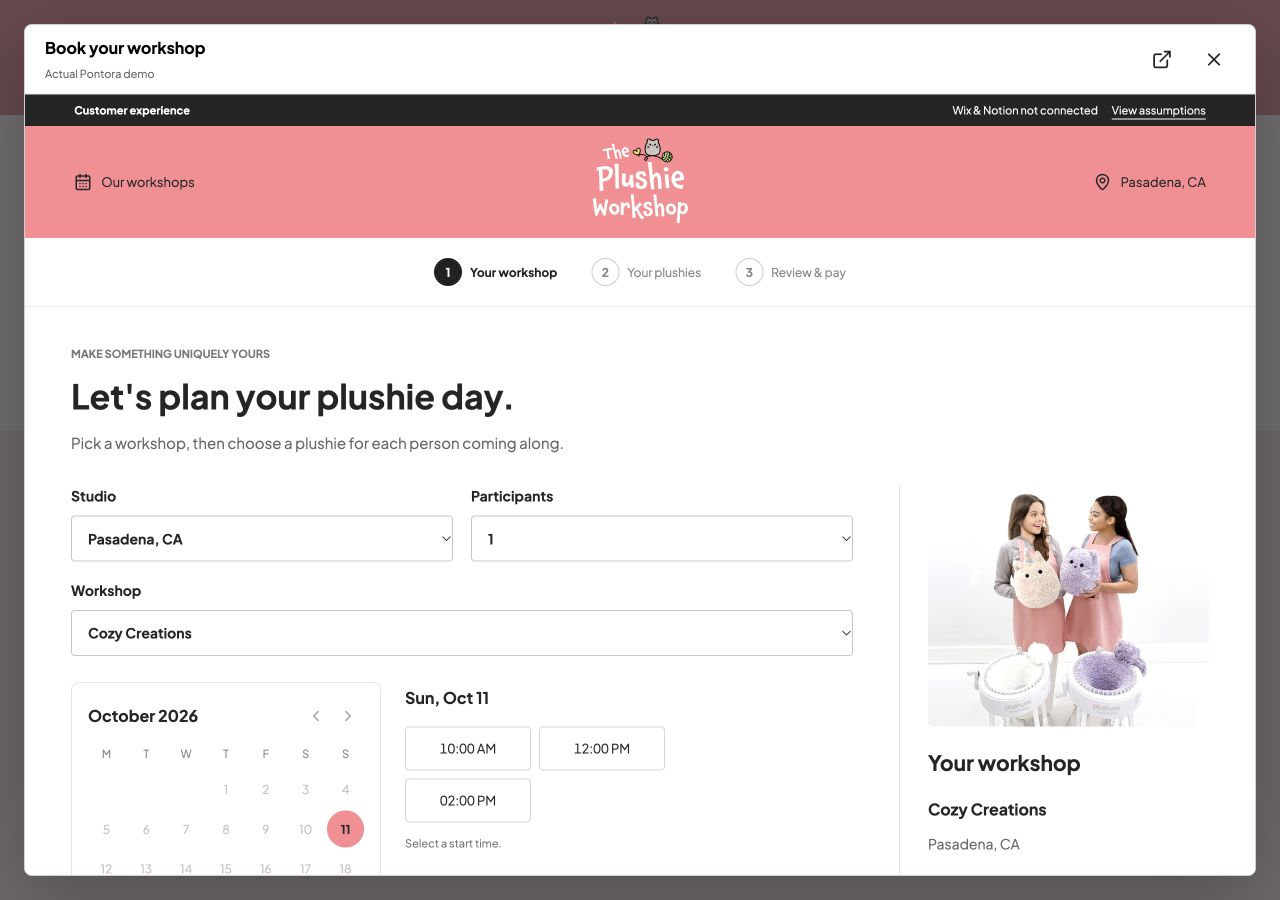
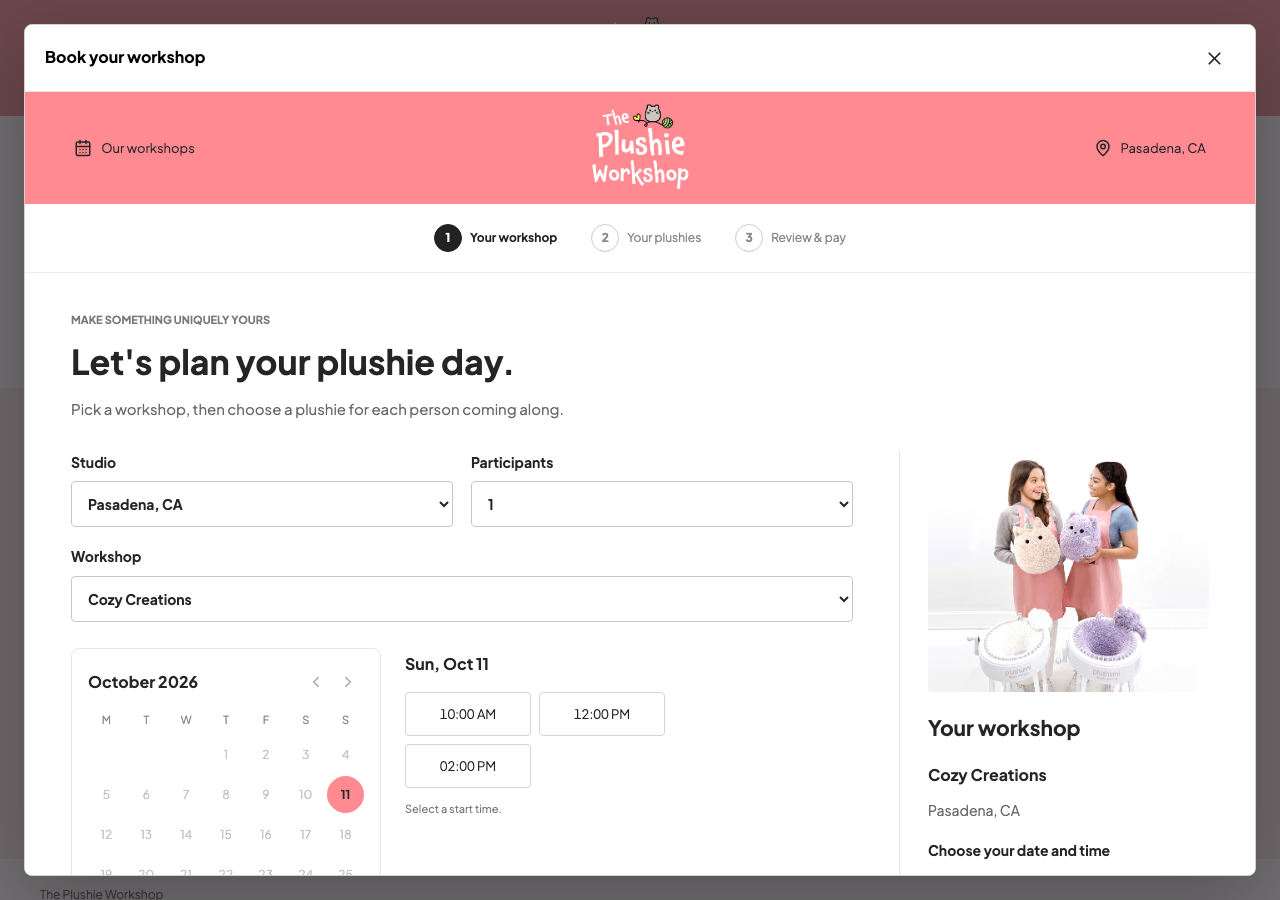
fix: simplify Plushumi demo navigation and track Stripe activation [skip render]

diff --git a/templates/scheduling/experience/integrations/modal.html b/templates/scheduling/experience/integrations/modal.html
@@ -5,17 +5,12 @@
   <meta charset="utf-8">
   <meta name="viewport" content="width=device-width,initial-scale=1">
   <meta name="robots" content="noindex,nofollow">
-  <title>Plushie Workshop | Modal integration preview</title>
+  <title>The Plushie Workshop | Book a workshop</title>
   <link rel="stylesheet" href="{% static 'scheduling/integrations/preview.css' %}">
-  <link rel="stylesheet" href="{% static 'scheduling/integrations/options.css' %}">
   <script defer src="/static/demo/plushumi/assets/lucide.js"></script>
   <script defer src="{% static 'scheduling/integrations/preview.js' %}"></script>
 </head>
 <body data-mode="modal">
-  <aside class="preview-note" aria-label="About this preview">
-    <div><strong>Modal integration preview</strong><span>Representative surrounding page. Real Pontora demo, using test data.</span></div>
-    <nav class="preview-links" aria-label="Integration previews"><a href="index.html">All options</a><a href="inline.html">Compare inline <i data-lucide="arrow-up-right" aria-hidden="true"></i></a></nav>
-  </aside>
   <a class="skip-link" href="#booking">Skip to booking</a>
   <header class="site-header">
     <details class="site-menu"><summary aria-label="Open navigation"><i data-lucide="menu" aria-hidden="true"></i><span>Menu</span></summary><nav aria-label="Plushie website"><a href="https://www.theplushieworkshop.com/the-plushie-workshop-locations" target="_blank" rel="noopener">Workshops</a><a href="https://www.theplushieworkshop.com/birthday-party-special-event" target="_blank" rel="noopener">Parties &amp; events</a><a href="https://www.theplushieworkshop.com/faq" target="_blank" rel="noopener">FAQ</a></nav></details>
@@ -26,7 +21,6 @@
     <section id="booking" class="booking-intro modal-intro" aria-labelledby="page-title">
       <p class="eyebrow">The Plushie Workshop / LA &amp; Pasadena</p>
       <h1 id="page-title">Book Your Workshop</h1>
-      <p>Choose a workshop time, then pick a design and color for each person joining you.</p>
       <div class="workshop-meta"><span><i data-lucide="heart" aria-hidden="true"></i> Guided plushie-making</span><span><i data-lucide="map-pin" aria-hidden="true"></i> 12 S Fair Oaks Ave, Pasadena</span></div>
       <button id="open-booking" class="book-button" type="button" aria-haspopup="dialog">Book Your Workshop <i data-lucide="arrow-right" aria-hidden="true"></i></button>
       <noscript><p><a href="/bookings/plushumi-demo/experience/">Open the real booking flow</a></p></noscript>
@@ -36,12 +30,12 @@
       <div><h2>A little creativity. Something to take home.</h2><p>A guided plushie-making session in the Pasadena studio.</p><a href="https://www.theplushieworkshop.com/plushie-making-workshop-la-pasadena" target="_blank" rel="noopener">View the current Plushie page <i data-lucide="arrow-up-right" aria-hidden="true"></i></a></div>
     </section>
   </main>
-  <footer class="site-footer"><span>The Plushie Workshop</span><span>Integration preview by Pontora</span></footer>
+  <footer class="site-footer"><span>The Plushie Workshop</span></footer>
   <dialog id="booking-dialog" aria-labelledby="dialog-title">
     <div class="dialog-shell">
-      <header class="dialog-header"><div><h2 id="dialog-title">Book your workshop</h2><span>Actual Pontora demo</span></div><div class="dialog-actions"><a class="direct-link" href="/bookings/plushumi-demo/experience/" target="_blank" rel="noopener" aria-label="Open booking separately" title="Open booking separately"><i data-lucide="external-link" aria-hidden="true"></i></a><button id="close-booking" type="button" autofocus aria-label="Close booking" title="Close booking"><i data-lucide="x" aria-hidden="true"></i></button></div></header>
+      <header class="dialog-header"><h2 id="dialog-title">Book your workshop</h2><div class="dialog-actions"><button id="close-booking" type="button" autofocus aria-label="Close booking" title="Close booking"><i data-lucide="x" aria-hidden="true"></i></button></div></header>
       <div class="embed-host" data-state="idle">
-        <div class="loading-panel" role="status" aria-live="polite"><span class="spinner" aria-hidden="true"></span><strong>Loading workshop booking...</strong><span class="loading-detail">Connecting to the Pontora demo.</span><div class="load-actions" hidden><button type="button" class="retry-button">Retry</button><a class="direct-link" href="/bookings/plushumi-demo/experience/" target="_blank" rel="noopener">Open booking in a new tab</a></div></div>
+        <div class="loading-panel" role="status" aria-live="polite"><span class="spinner" aria-hidden="true"></span><strong>Loading workshop booking...</strong><span class="loading-detail"></span><div class="load-actions" hidden><button type="button" class="retry-button">Retry</button><a class="direct-link" href="/bookings/plushumi-demo/experience/" target="_blank" rel="noopener">Open booking in a new tab</a></div></div>
         <iframe title="The Plushie Workshop - actual Pontora demo booking" data-booking-frame data-url="/bookings/plushumi-demo/experience/" referrerpolicy="same-origin"></iframe>
       </div>
     </div>

diff --git a/templates/scheduling/experience/booking.html b/templates/scheduling/experience/booking.html
@@ -3,9 +3,8 @@
 <header class="confirmation-heading"><div class="confirmation-icon"><i data-lucide="check" aria-hidden="true"></i></div><p class="success">Demo booking confirmed</p><h1>Your plushie day is on the calendar!</h1><p class="lead">We look forward to creating with you, {{ item.purchaser_name }}.</p></header>
 {% elif item.reservation.state == 'completed' %}<header class="confirmation-heading"><div class="confirmation-icon"><i data-lucide="check" aria-hidden="true"></i></div><p class="success">Workshop completed</p><h1>Thank you, {{ item.purchaser_name }}.</h1></header>
 {% elif item.reservation.state == 'canceled' %}<h1>Checkout canceled.</h1><p>Your places have been released.</p><a class="button" href="{% url 'scheduling:experience_start' school_slug=business.slug %}">Start a new booking</a>
-{% elif stripe_checkout %}<p class="integration-label">Pontora-managed payments alternative</p><h1>Complete your test booking</h1><p>Your selections are saved. Continue to Stripe's secure checkout to try a test payment.</p>
-<div class="boundary"><strong>Stripe test mode. No real charge.</strong><p>This is an alternative to Wix checkout, not a Wix integration. Places are confirmed only after Stripe verifies a successful payment.</p><p>Hold expires {{ item.reservation.hold_until|date:'g:i A' }}. Availability is checked again before confirmation.</p></div>
-{% else %}<p class="integration-label">Proposed Wix integration point</p><h1>Checkout handoff</h1><p>The completed selections would travel with this booking into Wix checkout. The customer would not fill out another selection form.</p><div class="boundary"><strong>Wix is not connected.</strong><p>This is a checkout simulation, not a Wix screen. The final handoff depends on the Wix APIs, account configuration and Jasmine's rules. A verified successful payment would confirm the reservation; a failed or abandoned checkout would not.</p><p>Hold expires {{ item.reservation.hold_until|date:'g:i A' }}. Availability is checked again before confirmation.</p></div>
+{% elif stripe_checkout %}<h1>Complete your test booking</h1><p>Stripe test checkout. No real charge.</p><p class="muted">Your places are held until {{ item.reservation.hold_until|date:'g:i A' }}.</p>
+{% else %}<h1>Checkout</h1><p>Demo checkout. No payment is collected.</p><p class="muted">Your places are held until {{ item.reservation.hold_until|date:'g:i A' }}.</p>
 {% endif %}
 {% if payment_message %}<p class="boundary" role="status">{{ payment_message }} <a href="?checkout_return=1">Check payment status</a></p>{% endif %}
 <div class="confirmation-layout"><section><img class="workshop-photo" src="{{ demo.photo }}" alt="Participants creating plushies in the workshop"><div class="details"><h2>{{ item.session_snapshot.workshop }}</h2><p>{{ item.session_snapshot.location }}<br>{{ item.requested_start|date:'D, M j, Y' }} at {{ item.requested_start|date:'g:i A' }}</p><p class="total">{{ people|length }} participant{{ people|pluralize }} <strong>${{ total }}</strong></p><p class="reference">Reference: {{ item.public_id }}</p></div>
@@ -15,9 +14,7 @@
 {% if item.reservation.state == 'confirmed' %}
 <details class="email-preview"><summary>Confirmation email preview (not sent)</summary><p>To: {{ item.purchaser_email }}</p><p>Your workshop is booked for {{ item.requested_start|date:'D, M j, Y' }} at {{ item.requested_start|date:'g:i A' }}, {{ item.session_snapshot.location }}.</p>{% include 'scheduling/experience/people.html' %}<p>We look forward to creating with you!</p></details>
 {% endif %}</section></div>
-{% if item.reservation.state == 'confirmed' %}
-<p class="next-integration"><strong>Next: Notion preparation sync</strong><br>The studio preparation list now contains these saved selections. A future connector would upsert this reservation into the agreed Notion database. No sync has run.</p><a href="{% url 'scheduling:experience_preparation' school_slug=business.slug %}?session={{ item.session_id }}">Open studio preparation (staff sign-in)</a>
-{% elif item.reservation.state != 'canceled' and item.reservation.state != 'completed' %}
+{% if item.reservation.state != 'confirmed' and item.reservation.state != 'canceled' and item.reservation.state != 'completed' %}
 {% if stripe_checkout %}
 {% if item.reservation.state == 'held' %}<form method="post" target="_top" class="simulation-actions">{% csrf_token %}<button class="button" name="action" value="stripe_checkout">Continue to Stripe Checkout <i data-lucide="arrow-up-right" aria-hidden="true"></i></button></form>{% endif %}
 <details class="assumptions" open><summary>Test cards</summary><p><strong>Successful payment:</strong> <code>4242 4242 4242 4242</code><br><strong>Declined payment:</strong> <code>4000 0000 0000 0002</code></p><p>Use any future expiry date and any three-digit CVC. Use test details only. A declined card can be replaced with the success card in the same checkout.</p></details>

diff --git a/templates/scheduling/experience/integrations/index.html b/templates/scheduling/experience/integrations/index.html
@@ -10,10 +10,6 @@
   <link rel="stylesheet" href="{% static 'scheduling/integrations/options.css' %}">
 </head>
 <body>
-  <aside class="preview-note" aria-label="Preview status">
-    <div><strong>Pontora x The Plushie Workshop</strong><span>Integration previews &middot; demo review</span></div>
-    <a href="https://demo.mypontora.com/demo/plushumi/" target="_blank" rel="noopener">Original walkthrough &nearr;</a>
-  </aside>
   <a class="skip-link" href="#options">Skip to integration options</a>
   <header class="options-brand">
     <img src="/static/demo/plushumi/assets/logo.png" width="125" height="96" alt="The Plushie Workshop">
@@ -22,17 +18,14 @@
     <header class="options-intro">
       <p class="eyebrow">Website integration</p>
       <h1>The Plushie Workshop</h1>
-      <p>Two ways to bring your booking experience into your existing website.</p>
-      <p class="options-context">Same workshop and participant selections as the original walkthrough. Only how customers open the booking flow changes.</p>
     </header>
     <section id="options" class="options-grid" aria-label="Integration options">
       <article class="option">
-        <a class="option-image" href="inline.html" tabindex="-1" aria-hidden="true"><img src="{% static 'scheduling/integrations/inline-overview.png' %}" width="1280" height="900" alt=""></a>
+        <a class="option-image" href="inline.html" tabindex="-1" aria-hidden="true"><img src="{% static 'scheduling/integrations/booking-overview.png' %}" width="1280" height="900" alt=""></a>
         <div class="option-body">
           <span class="option-number">01</span>
-          <h2>Book within the page</h2>
-          <p>The booking flow sits in the workshop page, where the current scheduling area is.</p>
-          <a class="option-link" href="inline.html">View inline preview <span aria-hidden="true">&rarr;</span></a>
+          <h2>Booking page</h2>
+          <a class="option-link" href="inline.html">Open booking page <span aria-hidden="true">&rarr;</span></a>
         </div>
       </article>
       <article class="option">
@@ -40,25 +33,11 @@
         <div class="option-body">
           <span class="option-number">02</span>
           <h2>Open from a booking button</h2>
-          <p>A &ldquo;Book Your Workshop&rdquo; button opens the same flow in a large popup.</p>
           <a class="option-link" href="modal.html">View popup preview <span aria-hidden="true">&rarr;</span></a>
         </div>
       </article>
     </section>
-    <section class="same-flow" aria-labelledby="flow-title">
-      <h2 id="flow-title">One customer journey</h2>
-      <ol class="flow-steps">
-        <li><span>1</span><div><strong>Your workshop</strong><small>Studio, date, time and participants</small></div></li>
-        <li><span>2</span><div><strong>Your plushies</strong><small>Design and color for each participant</small></div></li>
-        <li><span>3</span><div><strong>Review &amp; checkout</strong><small>One summary of everyone's choices</small></div></li>
-      </ol>
-    </section>
-    <aside class="integration-boundary" aria-label="Integration status">
-      <h2>What is connected?</h2>
-      <p>Both previews load the real Pontora demo. The surrounding website is representative only.</p>
-      <p><strong>Wix checkout and Notion sync are not connected.</strong> The intended checkout handoff and staff preparation view remain as proposed in the original walkthrough. Their final connection needs validation with your Wix setup and Notion database.</p>
-    </aside>
   </main>
-  <footer class="site-footer"><span>Prepared for The Plushie Workshop</span><a href="https://demo.mypontora.com/demo/plushumi/?screen=5" target="_blank" rel="noopener">Original staff preparation concept &nearr;</a></footer>
+  <footer class="site-footer"><span>Pontora x The Plushie Workshop</span></footer>
 </body>
 </html>

diff --git a/templates/scheduling/experience/base.html b/templates/scheduling/experience/base.html
@@ -3,7 +3,6 @@
 <link rel="stylesheet" href="{% static 'scheduling/experience.css' %}?v=20261006-booking-layout">
 <script defer src="{% static 'demo/plushumi/assets/lucide.js' %}"></script><script defer src="{% static 'scheduling/material-availability.js' %}"></script><script defer src="{% static 'scheduling/experience.js' %}?v=20261006-color-photos"></script></head>
 <body><a class="skip" href="#content">Skip to content</a>
-<div class="demo-bar"><strong>{{ audience|default:'Customer experience' }}</strong><span>Wix &amp; Notion not connected <a href="#assumptions">View assumptions</a></span></div>
 <header class="brandbar">
 <nav aria-label="Workshops"><a href="{% url 'scheduling:experience_start' school_slug=business.slug %}"><i data-lucide="calendar-days" aria-hidden="true"></i> Our workshops</a></nav>
 <a class="brand-logo" href="{% url 'scheduling:experience_start' school_slug=business.slug %}"><img src="{{ demo.logo }}" alt="{{ demo.name }}" width="125" height="96"></a>
@@ -14,5 +13,4 @@
 <li class="{% if step > 2 %}done{% endif %}" {% if step == 2 %}aria-current="step"{% endif %}><b>{% if step > 2 %}<i data-lucide="check" aria-hidden="true"></i>{% else %}2{% endif %}</b> Your plushies</li>
 <li {% if step >= 3 %}aria-current="step"{% endif %}><b>3</b> Review &amp; pay</li></ol>{% endif %}
 <main id="content">{% if error %}<p class="alert" role="alert">{{ error }}</p>{% endif %}{% block content %}{% endblock %}
-<details id="assumptions" class="assumptions"><summary>Demo assumptions &amp; integration boundaries</summary><p>Studios, available dates, capacity, ${{ unit_price }} per participant, designs, colors and policies are examples for discussion, not verified inventory or offers. Color previews are illustrative, not photographs of every product combination.</p>{% if stripe_checkout %}<p><strong>Stripe test checkout:</strong> this demonstrates Pontora-managed payments as an alternative to Wix checkout. It uses Pontora's test Stripe account, not The Plushie Workshop's account. No real money is collected. This does not demonstrate a completed Wix integration.</p>{% endif %}<p><strong>Wix:</strong> proposed source for availability and booking/payment status. {% if not stripe_checkout %}At checkout, this demo records only a local simulated payment. {% endif %}We need Jasmine's booking rules, account access and Wix capability validation before deciding the final handoff. No live calendar or payment system is updated.</p><p><strong>Notion:</strong> proposed destination for one reservation and its participant selections. The studio view shows what would be sent. Database fields, permissions, record ownership and cancellation/update rules need agreement. No data is sent to Notion.</p></details>
 </main><footer><span>Pontora x {{ demo.name }}</span><nav aria-label="Other workshop pages"><a href="{% url 'scheduling:public_schedule' school_slug=business.slug %}">Parties &amp; camps</a><a href="{% url 'scheduling:experience_preparation' school_slug=business.slug %}">Studio team</a></nav></footer></body></html>

diff --git a/templates/scheduling/experience/review.html b/templates/scheduling/experience/review.html
@@ -4,6 +4,6 @@
 {% for person in rows %}<article class="review-person">{% include 'scheduling/experience/selection_thumbnail.html' %}<div><h3>{{ person.name }}</h3><div class="selections">{% for selection in person.selections %}<span>{{ selection.group }}: <strong>{{ selection.option }}</strong></span>{% endfor %}</div></div></article>{% endfor %}
 <section class="contact"><h2>Booking contact</h2><p>{{ purchaser.purchaser_name }}<br>{{ purchaser.purchaser_email }}</p><p class="tiny muted">Example policies reviewed.</p></section>
 </section><aside class="summary"><h2>Your workshop</h2><h3>{{ session.offering.name }}</h3><p>{{ session.offering.location.name }}<br>{{ session.starts_at|date:'D, M j, Y' }} at {{ session.starts_at|date:'g:i A' }}</p>
-<p>{{ rows|length }} participant{{ rows|pluralize }} &times; ${{ unit_price }}</p><p class="total">{% if stripe_checkout %}Test total{% else %}Subtotal{% endif %} <strong>${{ total }}</strong></p><p class="tiny muted">{% if stripe_checkout %}Stripe test checkout. No real charge; tax is not configured in this demo.{% else %}Tax and final charges would be calculated at Wix checkout.{% endif %}</p>
+<p>{{ rows|length }} participant{{ rows|pluralize }} &times; ${{ unit_price }}</p><p class="total">{% if stripe_checkout %}Test total{% else %}Subtotal{% endif %} <strong>${{ total }}</strong></p><p class="tiny muted">{% if stripe_checkout %}Stripe test checkout. No real charge; tax is not configured in this demo.{% else %}Demo checkout. No payment is collected.{% endif %}</p>
 <form method="post">{% csrf_token %}{% for key,value in fields %}<input type="hidden" name="{{ key }}" value="{{ value }}">{% endfor %}<input type="hidden" name="review_token" value="{{ review_token }}"><button name="action" value="checkout" class="button">Continue to checkout demo <i data-lucide="arrow-right" aria-hidden="true"></i></button><button name="action" value="edit" class="quiet">Edit selections</button></form>
 </aside></div>{% endblock %}

diff --git a/static/scheduling/integrations/preview.js b/static/scheduling/integrations/preview.js
@@ -18,13 +18,13 @@
     host.dataset.state = 'loading';
     host.setAttribute('aria-busy', 'true');
     title.textContent = 'Loading workshop booking...';
-    detail.textContent = 'Connecting to the Pontora demo.';
+    detail.textContent = '';
     actions.hidden = true;
     frame.src = bookingURL.href;
     timeout = setTimeout(() => {
       host.dataset.state = 'slow';
       title.textContent = 'Booking is taking longer to load';
-      detail.textContent = 'The demo may be unavailable, or embedding may be blocked. You can retry or open it separately.';
+      detail.textContent = 'Please retry or open booking in a new tab.';
       actions.hidden = false;
     }, 12000);
   }
@@ -51,7 +51,7 @@
     } catch {
       host.dataset.state = 'error';
       title.textContent = 'Booking could not be embedded';
-      detail.textContent = 'The Pontora demo or its approved embedding configuration is unavailable. No replacement form is shown.';
+      detail.textContent = 'Please retry or open booking in a new tab.';
       actions.hidden = false;
     }
   });

diff --git a/static/scheduling/experience.css b/static/scheduling/experience.css
@@ -22,8 +22,6 @@ strong{font-weight:700}
 .eyebrow{text-transform:uppercase;font-size:11px;font-weight:700;margin-bottom:12px;color:#787878}
 .skip{position:absolute;left:-9999px}
 .skip:focus{left:10px;top:10px;z-index:10;background:white;padding:8px}
-.demo-bar{padding:7px 4%;background:#252525;color:white;display:flex;gap:12px;justify-content:space-between;font-size:11px}
-.demo-bar a{margin-left:12px}
 .brandbar{background:#ff8a92;display:grid;grid-template-columns:1fr 125px 1fr;align-items:center;gap:24px;padding:8px 4%;min-height:112px}
 .brand-logo{display:flex;justify-content:center}
 .brandbar img{width:125px;height:96px;object-fit:contain}

diff --git a/scheduling/tests/test_hosted_experience_demo.py b/scheduling/tests/test_hosted_experience_demo.py
@@ -86,14 +86,34 @@ def test_hosted_opt_in_required_for_seed_and_routes(hosted):
 @pytest.mark.parametrize("variant", ["", "index.html", "inline.html", "modal.html"])
 def test_real_flow_wrappers_are_guarded_and_same_origin(demo, hosted, variant):
     response = hosted.get(ROOT + variant, secure=True)
-    assert response.status_code == 200
+    assert response.status_code == (302 if variant == "inline.html" else 200)
     assert response["X-Frame-Options"] == "DENY"
     assert "frame-src 'self'" in response["Content-Security-Policy"]
     assert "noindex" in response["X-Robots-Tag"]
-    if variant in {"inline.html", "modal.html"}:
+    if variant == "inline.html":
+        assert response.url == url("start")
+    if variant == "modal.html":
         assert b'data-url="/bookings/plushumi-demo/experience/"' in response.content
         assert b'<form' not in response.content
     assert hosted.post(ROOT + variant, secure=True).status_code == 405
+
+
+def test_booking_option_navigates_to_real_page_with_one_header(demo, hosted):
+    hub = hosted.get(ROOT, secure=True)
+    assert b'href="inline.html"' in hub.content and b'href="modal.html"' in hub.content
+    assert b"Booking page" in hub.content and b"View inline preview" not in hub.content
+    redirect = hosted.get(ROOT + "inline.html", secure=True)
+    assert redirect.status_code == 302 and redirect.url == url("start")
+    response = hosted.get(redirect.url, secure=True)
+    assert response.status_code == 200
+    assert response.content.count(b'<header class="brandbar">') == 1
+    assert b"<iframe" not in response.content
+    for page in (hub, response, hosted.get(ROOT + "modal.html", secure=True)):
+        assert b'class="preview-note"' not in page.content
+        assert b'class="demo-bar"' not in page.content
+        assert b"View assumptions" not in page.content
+        assert b"not connected" not in page.content
+        assert b"Same workshop and participant selections" not in page.content
 
 
 def test_only_public_demo_pages_can_be_framed(demo, hosted):
@@ -107,15 +127,17 @@ def test_only_public_demo_pages_can_be_framed(demo, hosted):
     assert hosted.get(ROOT + "unknown.html", secure=True).status_code == 404
 
 
-def test_wrong_host_plain_http_and_non_demo_tenant_rejected(demo, hosted):
-    assert hosted.get(ROOT).status_code == 404
-    assert hosted.get(ROOT, secure=True, HTTP_HOST="app.mypontora.com").status_code == 404
+@pytest.mark.parametrize("variant", ["", "inline.html", "modal.html"])
+def test_wrong_host_plain_http_and_non_demo_tenant_rejected(demo, hosted, variant):
+    path = ROOT + variant
+    assert hosted.get(path).status_code == 404
+    assert hosted.get(path, secure=True, HTTP_HOST="app.mypontora.com").status_code == 404
     config.settings.BOOKING_HOSTED_DEMO_HOSTS = []
-    assert hosted.get(ROOT, secure=True).status_code == 404
+    assert hosted.get(path, secure=True).status_code == 404
     config.settings.BOOKING_HOSTED_DEMO_HOSTS = [HOST]
     demo.school.is_demo = False
     demo.school.save()
-    assert hosted.get(ROOT, secure=True).status_code == 404
+    assert hosted.get(path, secure=True).status_code == 404
 
 
 def test_disabled_school_rejected(demo, hosted):

diff --git a/scheduling/tests/test_experience_demo.py b/scheduling/tests/test_experience_demo.py
@@ -247,7 +247,7 @@ def held(browser, demo, count=2):
     assert review.status_code == 200
     assert review.context["total"] == 65*count
     assert b"This demo charges nothing" not in review.content
-    assert b"Tax and final charges would be calculated at Wix checkout" in review.content
+    assert b"Demo checkout. No payment is collected." in review.content
     data.update(action="checkout", review_token=review.context["review_token"])
     result = browser.post(url("choose", pk=session.pk), data)
     assert result.status_code == 302
@@ -309,7 +309,7 @@ def test_customer_mock_presentation_preserves_review_and_confirmation_contract(d
     assert len(confirmation.find("article", **{"class": "review-person"})) == 2
     assert confirmation.find("img", **{"class": "workshop-photo"})[0]["src"]
     assert b"Confirmation email preview (not sent)" in response.content
-    assert b"No sync has run." in response.content
+    assert b"Next: Notion preparation sync" not in response.content
 
 
 def test_local_cancel_refund_is_simulated_idempotent_and_audited(demo, browser):
@@ -535,7 +535,8 @@ def test_legacy_preview_binding_backfill_preserves_staff_edits(demo):
 def test_complete_customer_staff_and_projection_journey(demo, browser):
     start = browser.get(url("start"))
     assert start.status_code == 200 and len(start.context["sessions"]) == 45
-    assert b"Wix &amp; Notion not connected" in start.content
+    assert b"Wix &amp; Notion not connected" not in start.content
+    assert b'class="demo-bar"' not in start.content
     assert b"Local working demo" not in start.content
     assert b"No real money is collected" not in start.content
     item = confirmed(browser, demo)

diff --git a/scheduling/experience_demo/previews.py b/scheduling/experience_demo/previews.py
@@ -1,6 +1,6 @@
-"""Same-origin integration wrappers around the actual, explicitly enabled demo."""
+"""Booking-page and popup options for the explicitly enabled customer demo."""
 from django.http import Http404
-from django.shortcuts import render
+from django.shortcuts import redirect, render
 from django.views.decorators.cache import never_cache
 from django.views.decorators.http import require_GET
 
@@ -13,7 +13,11 @@ def preview(request, variant="index"):
     if variant not in {"index", "inline", "modal"}:
         raise Http404
     context(request, "plushumi-demo")
-    response = render(request, f"scheduling/experience/integrations/{variant}.html")
+    if variant == "inline":
+        # Keep previously shared links working without nesting a complete booking page.
+        response = redirect("scheduling:experience_start", school_slug="plushumi-demo")
+    else:
+        response = render(request, f"scheduling/experience/integrations/{variant}.html")
     response["X-Robots-Tag"] = "noindex, nofollow"
     response["Content-Security-Policy"] = "frame-ancestors 'none'; frame-src 'self'; object-src 'none'; base-uri 'none'"
     return response

diff --git a/scripts/tests/test_project_status.py b/scripts/tests/test_project_status.py
@@ -139,6 +139,19 @@ def test_inventory_verification_and_manual_steps_are_browsable():
     assert any(row["ID"] == "P3" for row in viewer.milestone_records(source))
 
 
+def test_stripe_followup_is_planned_and_browsable_with_acceptance_checks():
+    source = (viewer.ROOT / "docs/scheduling-implementation-tracker.md").read_text()
+    row = next(row for row in viewer.milestone_records(source) if row["ID"] == "B1")
+    assert row["Status"] == "Planned"
+    steps = viewer.manual_steps(source)["B1"]
+    for requirement in ("invoice.paid", "invoice.payment_failed", "send_payment_notifications",
+                        "Parent payment failures", "card", "seven-day", "SBMC"):
+        assert requirement in steps
+    assert 'href="/payment-recovery"' in viewer.overview(source)
+    status, _, body = viewer.response("/payment-recovery")
+    assert status == 200 and b"NOT complete" in body
+
+
 def test_m9a_verification_is_browsable_without_claiming_m9_complete():
     html = viewer.render_document("[Tours](scheduling-m9a-verification.md)", "docs/scheduling-implementation-tracker.md")
     assert 'href="/verification-m9a"' in html

diff --git a/scheduling/tests/test_experience_stripe.py b/scheduling/tests/test_experience_stripe.py
@@ -189,7 +189,7 @@ def test_adapter_refuses_unavailable_demo(stripe_demo, browser, monkeypatch):
 def test_disabled_mode_preserves_existing_simulation(demo, browser):
     session, data = form_data(browser, demo, count=1)
     review = browser.post(url("choose", pk=session.pk), data)
-    assert b"calculated at Wix checkout" in review.content
+    assert b"Demo checkout. No payment is collected." in review.content
     data.update(action="checkout", review_token=review.context["review_token"])
     response = browser.post(url("choose", pk=session.pk), data)
     assert b"Simulate successful checkout" in browser.get(response.url).content
